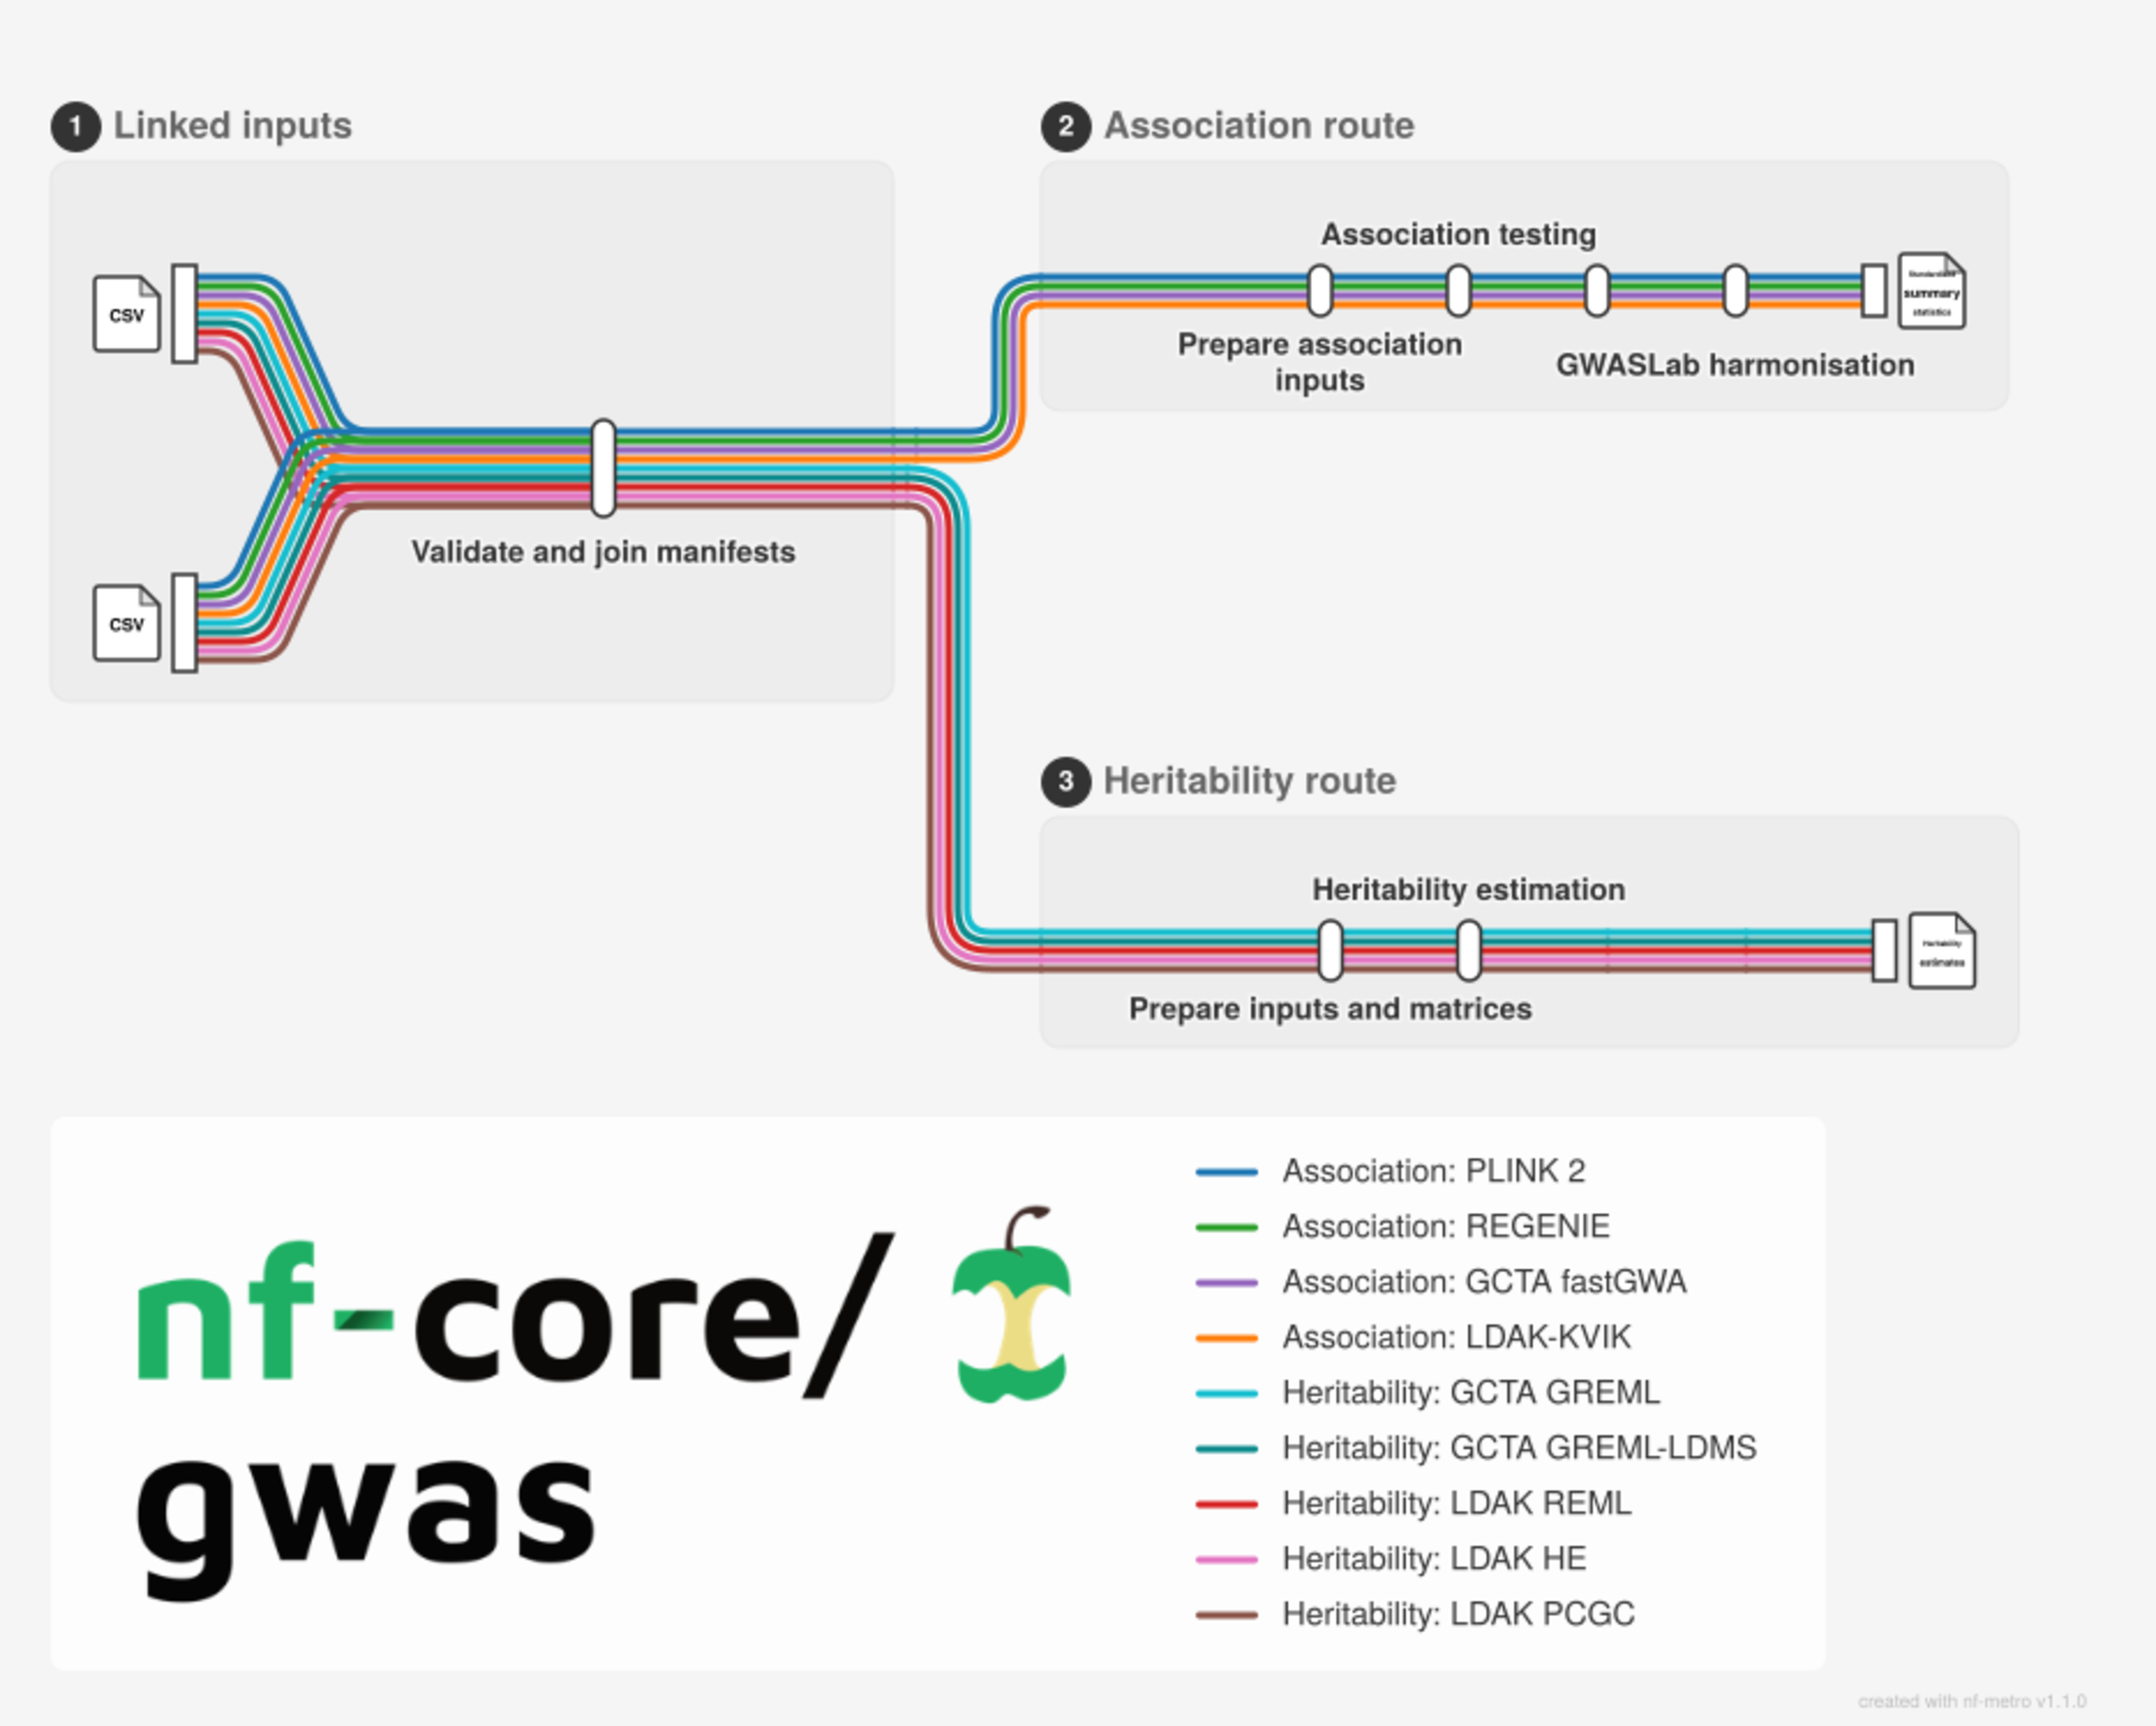
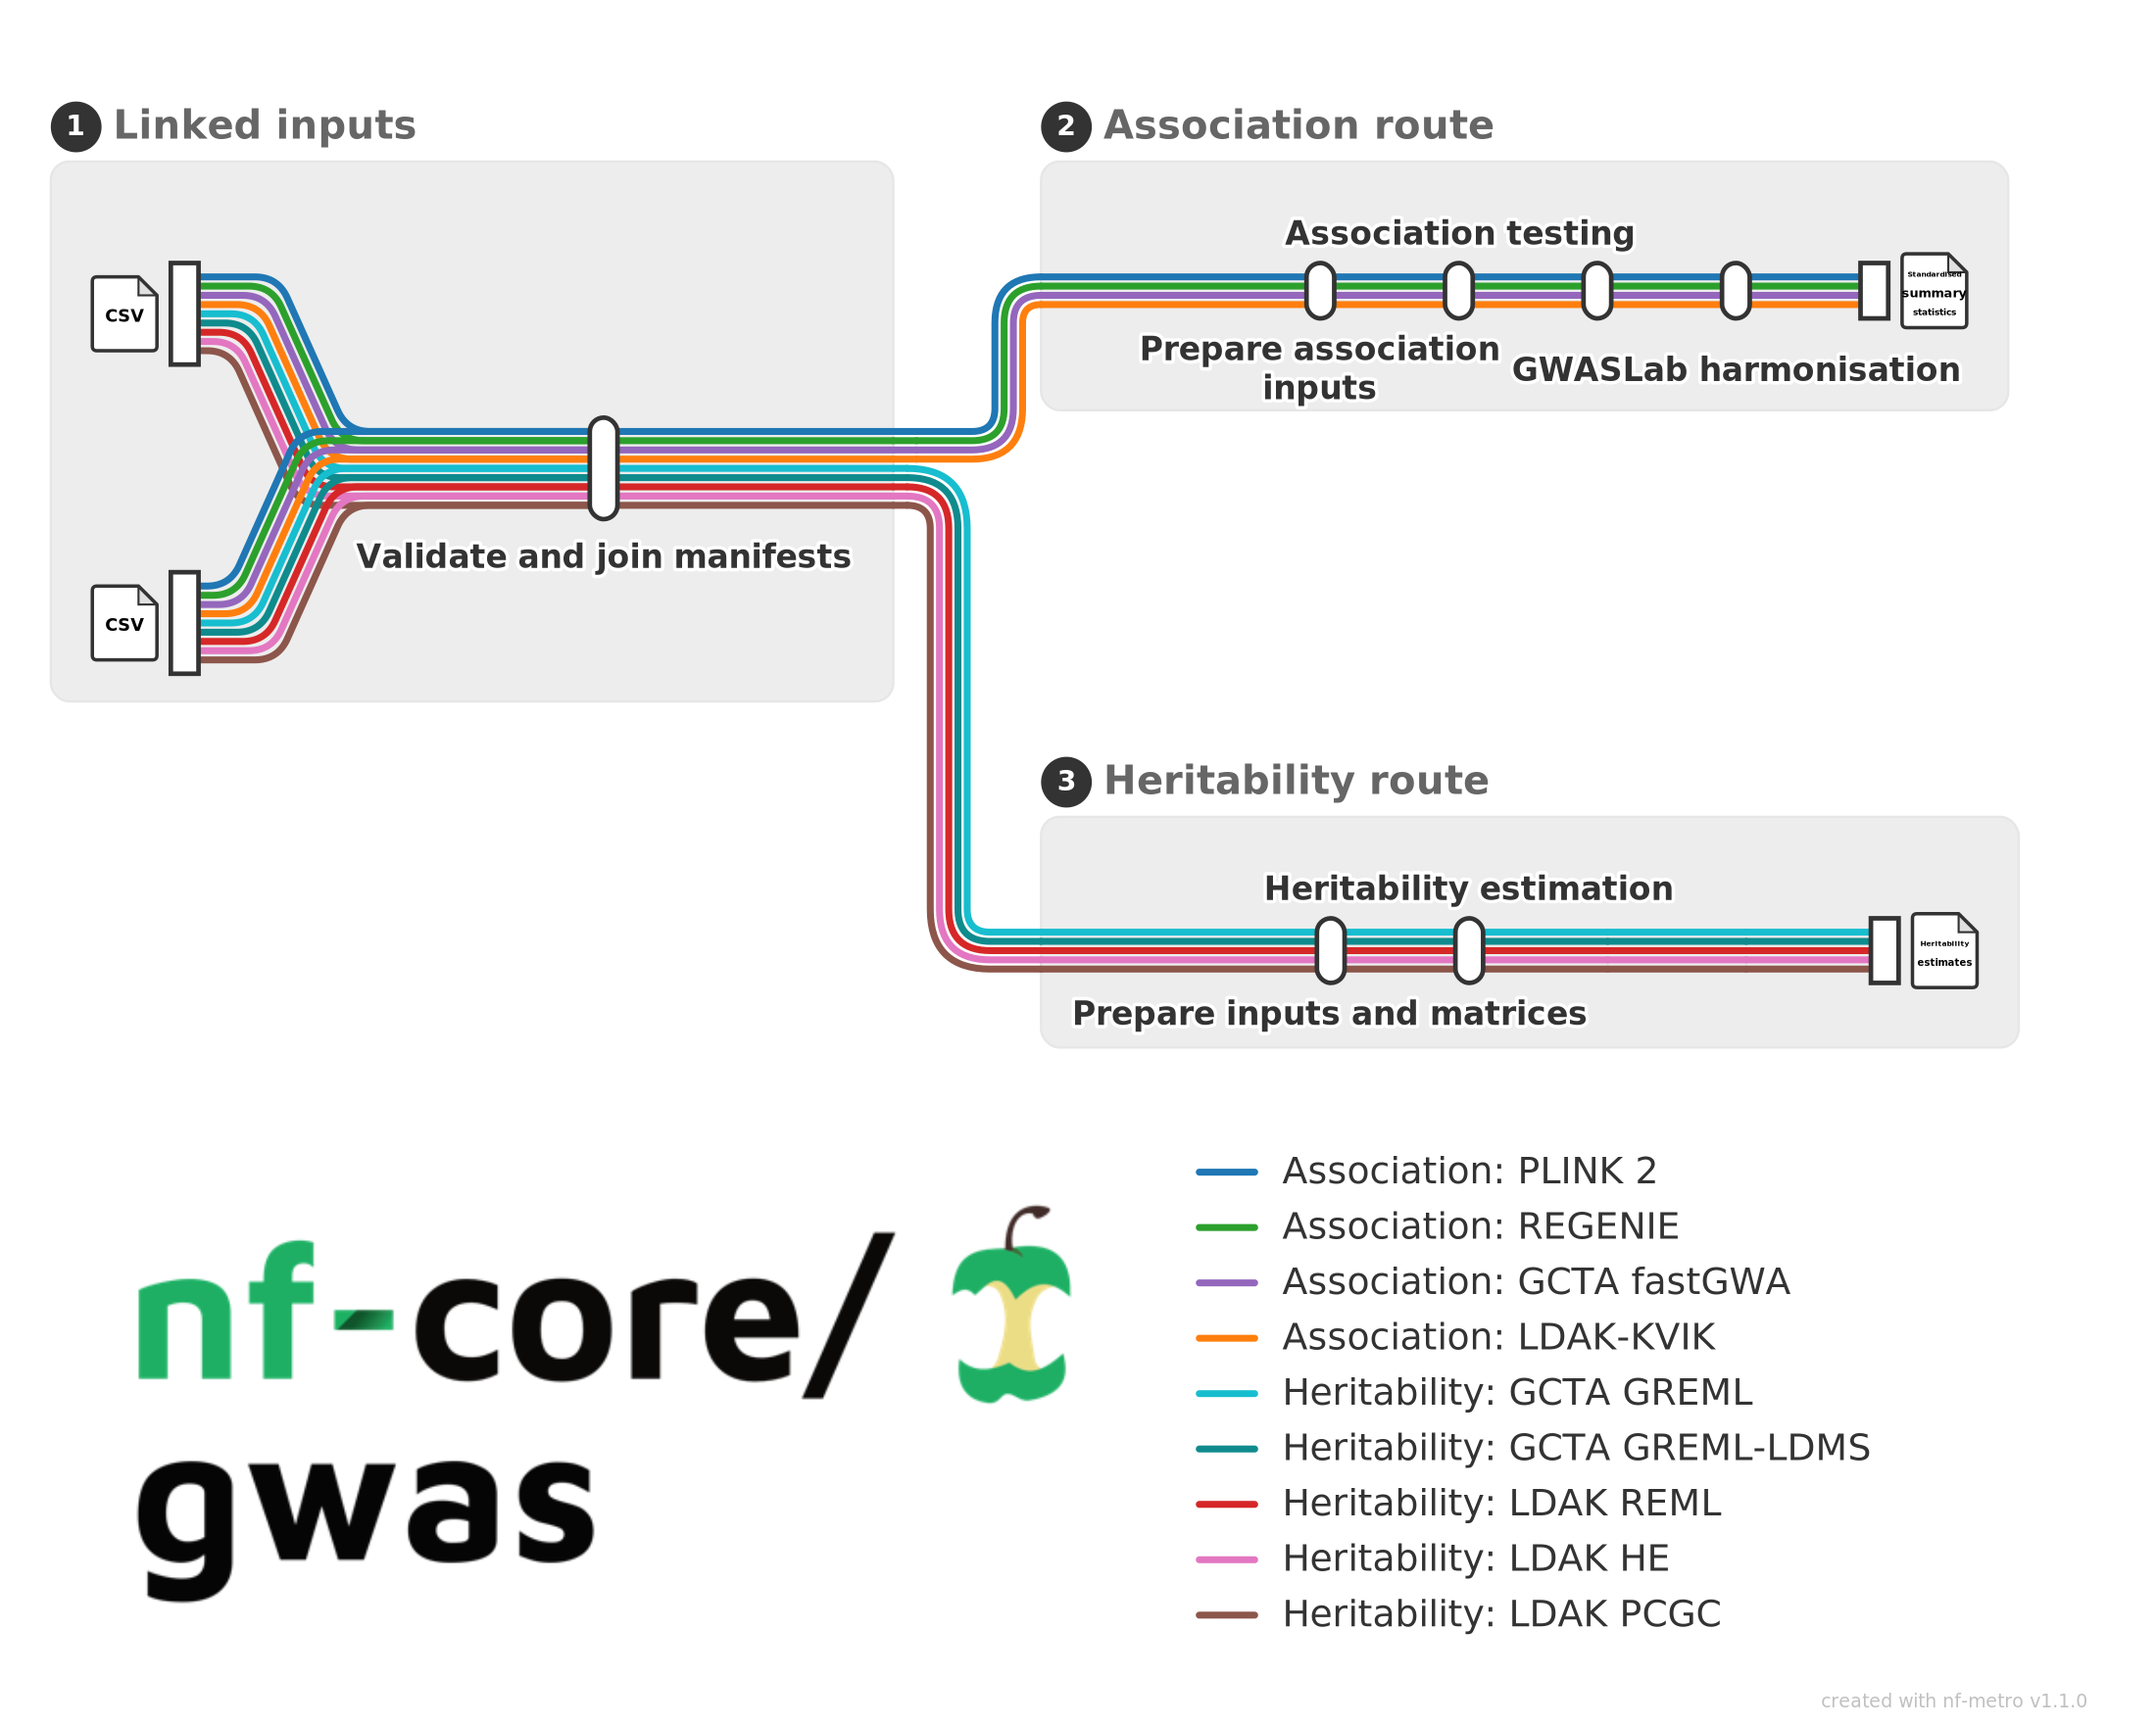
Render pipeline metro map transparently

diff --git a/docs/dev/metro_map.md b/docs/dev/metro_map.md
@@ -1,6 +1,6 @@
 # Metro map
 
-The pipeline overview is generated from `assets/metro_map.mmd` with [nf-metro](https://github.com/pinin4fjords/nf-metro). Update the source whenever a public route or reuse boundary changes, then regenerate both committed images:
+The pipeline overview is generated from `assets/metro_map.mmd` with [nf-metro](https://github.com/pinin4fjords/nf-metro). Update the source whenever a public route or reuse boundary changes, then regenerate both committed images from the project development shell (`nix-shell` or direnv):
 
 ```bash
 python3 -m venv .venv-nf-metro
@@ -8,12 +8,12 @@ python3 -m venv .venv-nf-metro
 
 .venv-nf-metro/bin/nf-metro render assets/metro_map.mmd \
   -o docs/images/nf-core-gwas_metro_map.svg \
-  --theme nfcore-light --mode light --x-spacing 60 --y-spacing 40 \
-  --responsive --validate --compact-offsets \
+  --theme light --mode light --x-spacing 60 --y-spacing 40 \
+  --responsive --validate --compact-offsets --no-chrome-css \
   --logo docs/images/nf-core-gwas_logo_light.png
 
-magick -background white docs/images/nf-core-gwas_metro_map.svg \
-  -resize 2200x -depth 8 -strip docs/images/nf-core-gwas_metro_map.png
+cairosvg docs/images/nf-core-gwas_metro_map.svg \
+  -o docs/images/nf-core-gwas_metro_map.png --output-width 2200
 ```
 
 Open the SVG and PNG after rendering and check their text, line labels, contrast and cropping. The README uses the SVG; the PNG is a static presentation fallback.
